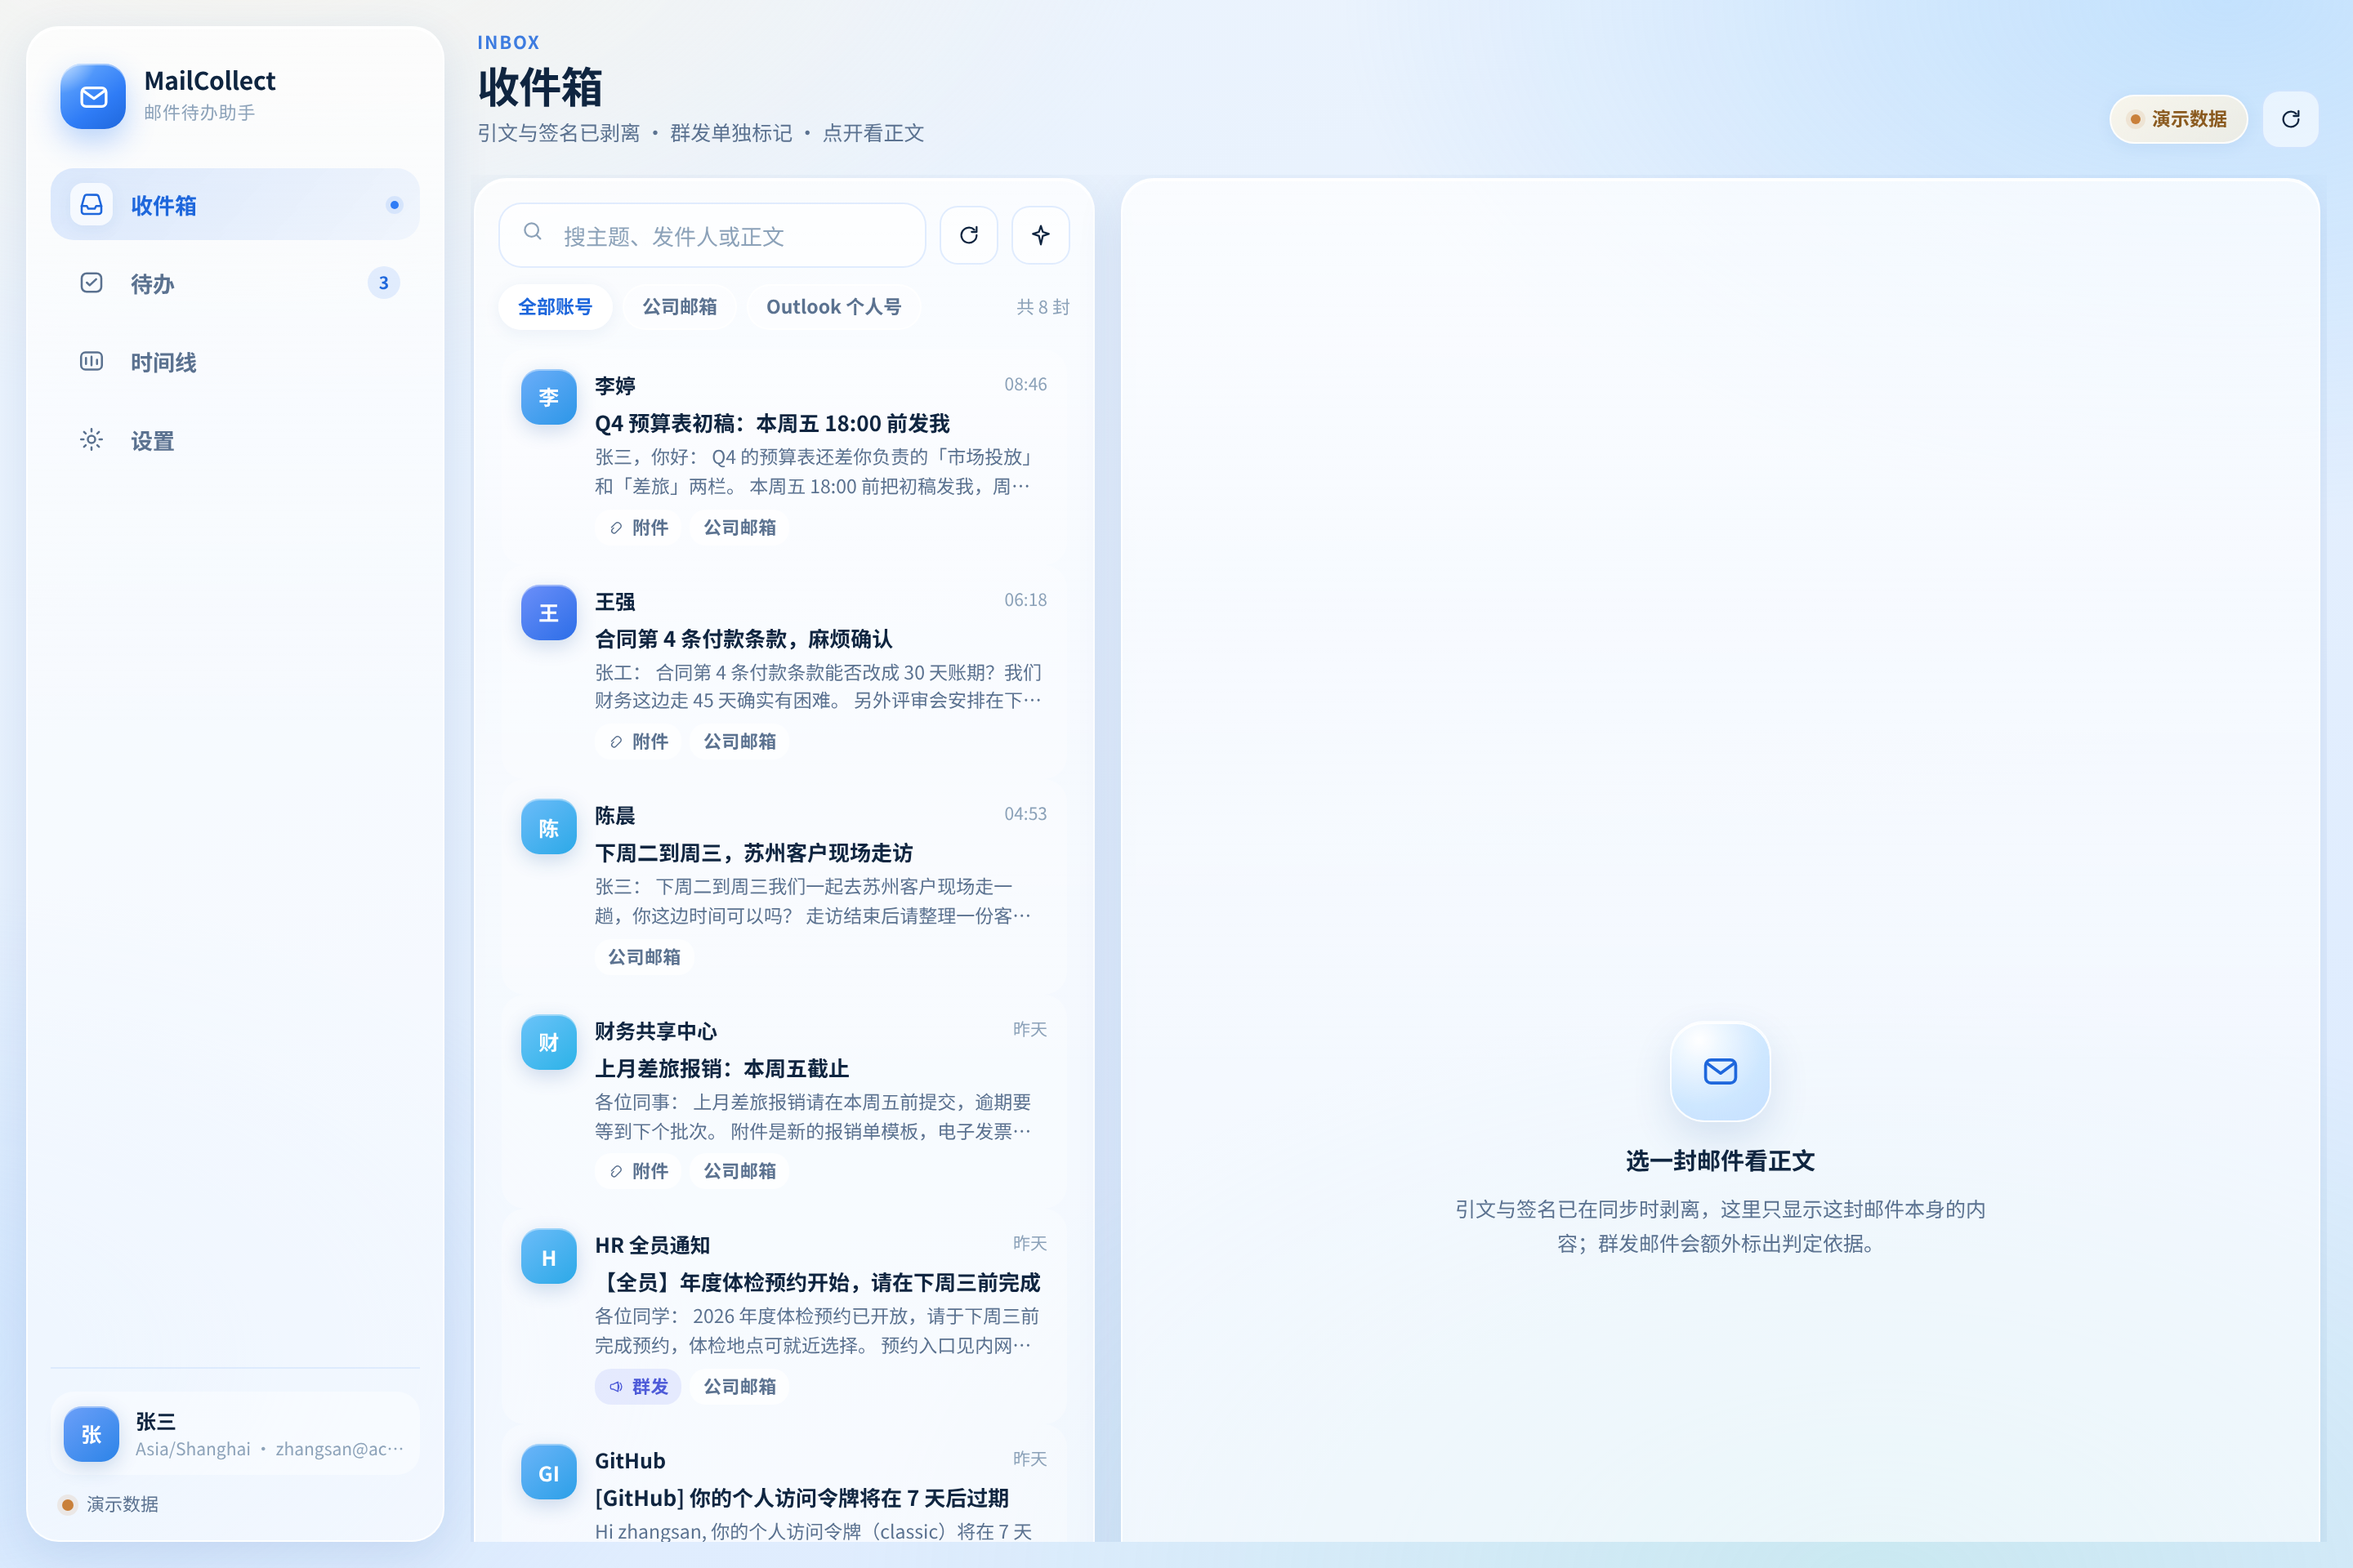
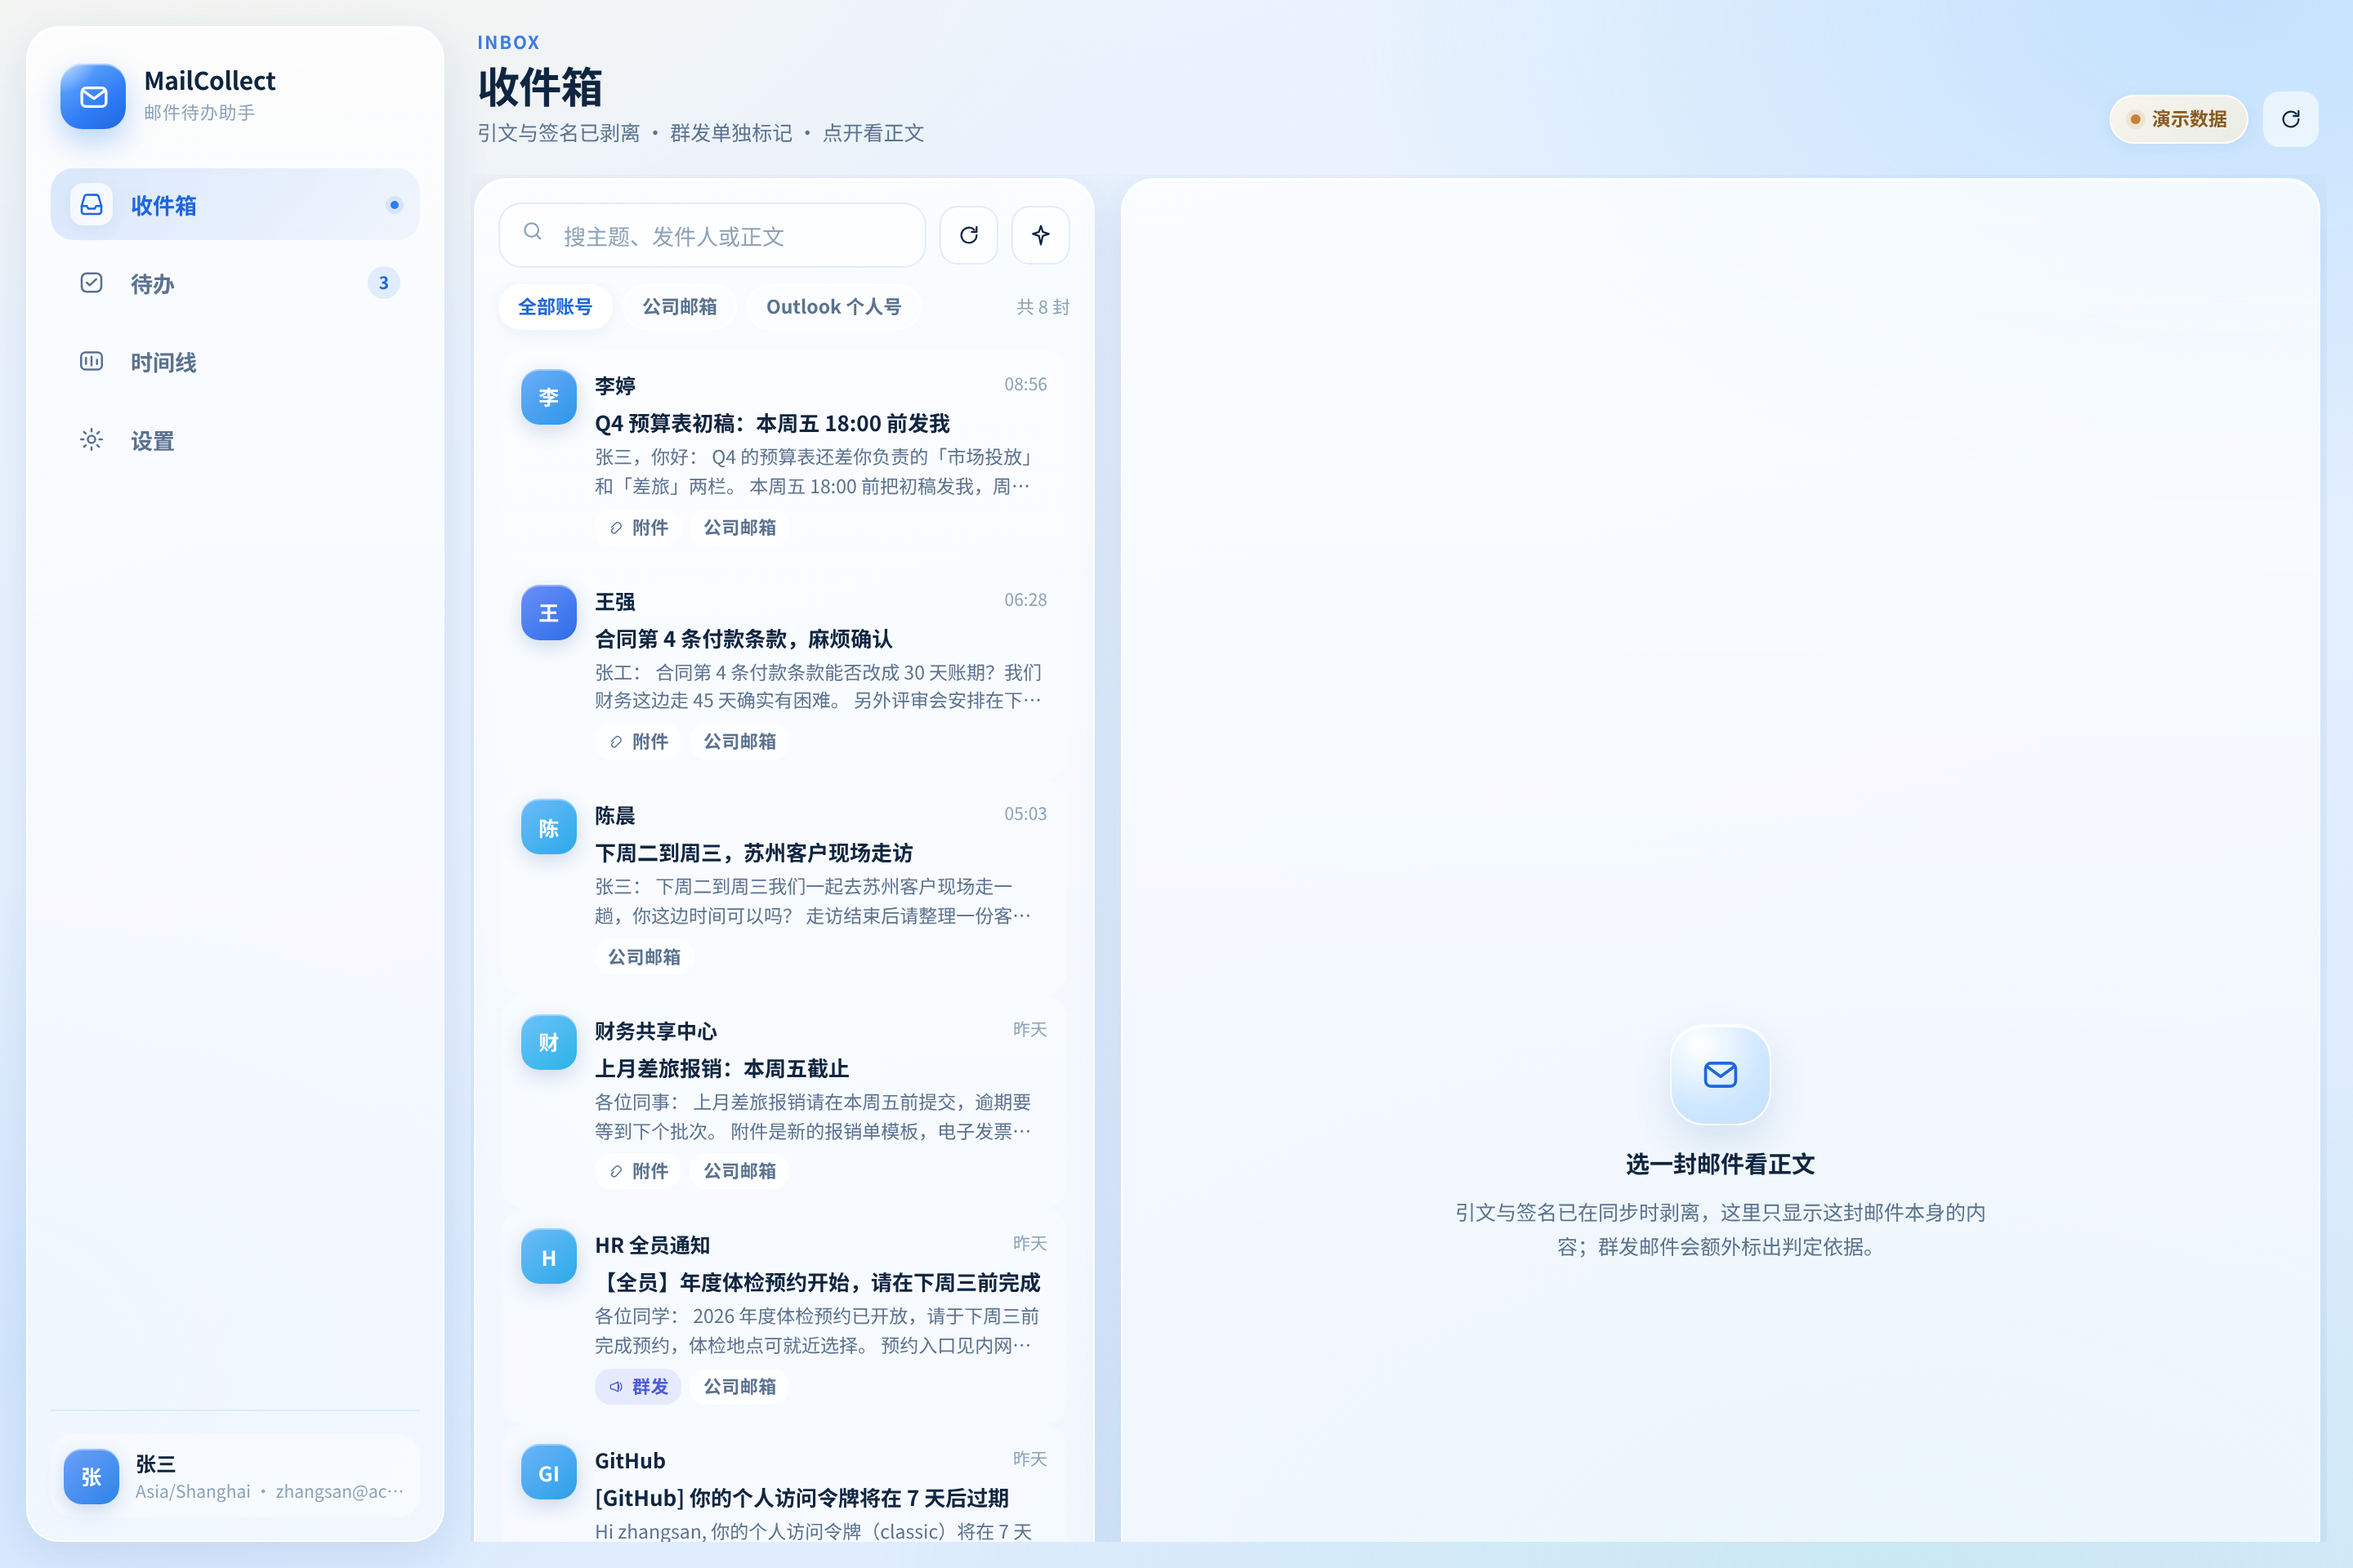
build(desktop): pin electron, fix executable name, produce a Linux AppImage
electron-builder needs an exact electron version and a path-safe executable name;
both were failing. Now yields release/MailCollect-0.1.0.AppImage (130MB) with the
bundled server + built UI inside.

Changed region(s): [[0.625, 0.6562, 0.8438, 0.8125], [0.0, 0.875, 0.0938, 0.9688], [0.125, 0.9062, 0.1562, 0.9688]]

diff --git a/apps/ui/src/styles/global.css b/apps/ui/src/styles/global.css
@@ -1662,8 +1662,12 @@ a {
 }
 
 .gantt_task_line.mc-bar--due {
-  background: linear-gradient(90deg, rgba(228, 112, 95, 0.16), rgba(228, 112, 95, 0.55));
-  box-shadow: 0 3px 8px rgba(228, 112, 95, 0.14);
+  height: 14px !important;
+  margin-top: 5px;
+  background: rgba(228, 112, 95, 0.07);
+  border: 1px dashed rgba(228, 112, 95, 0.42);
+  border-radius: var(--radius-pill);
+  box-shadow: none;
 }
 
 .gantt_task_line.mc-bar--due .gantt_task_content {
